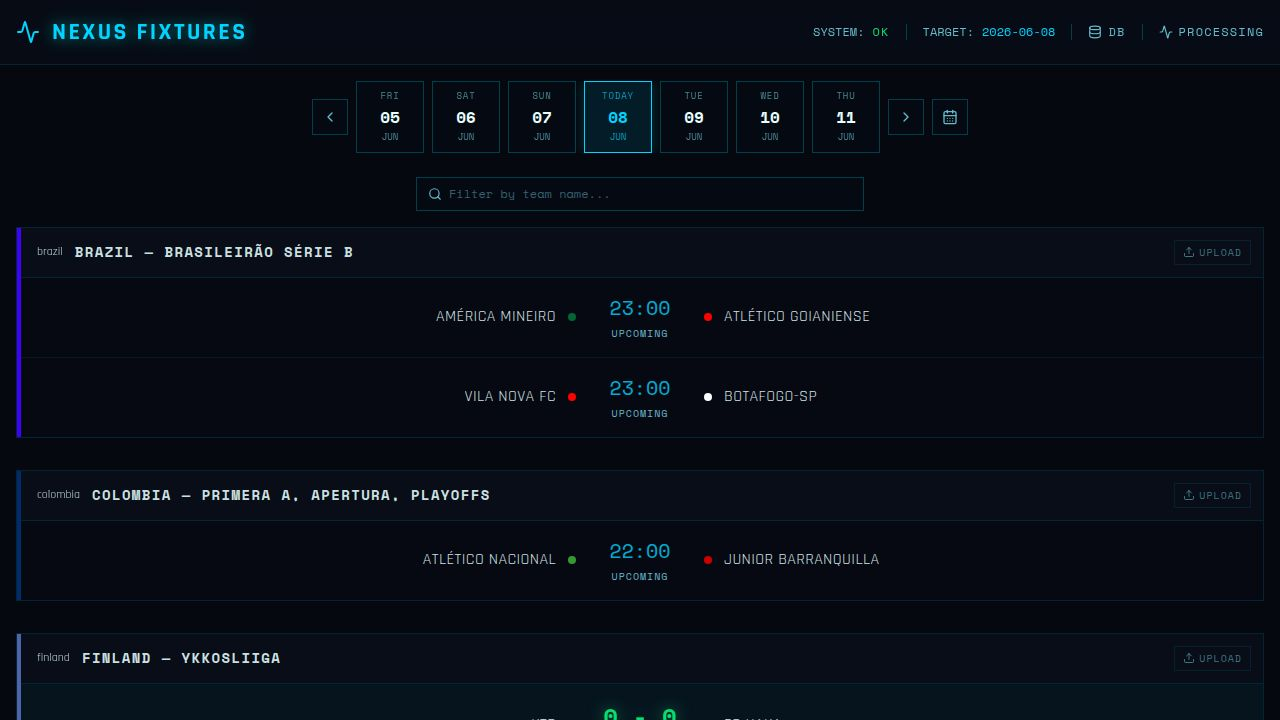
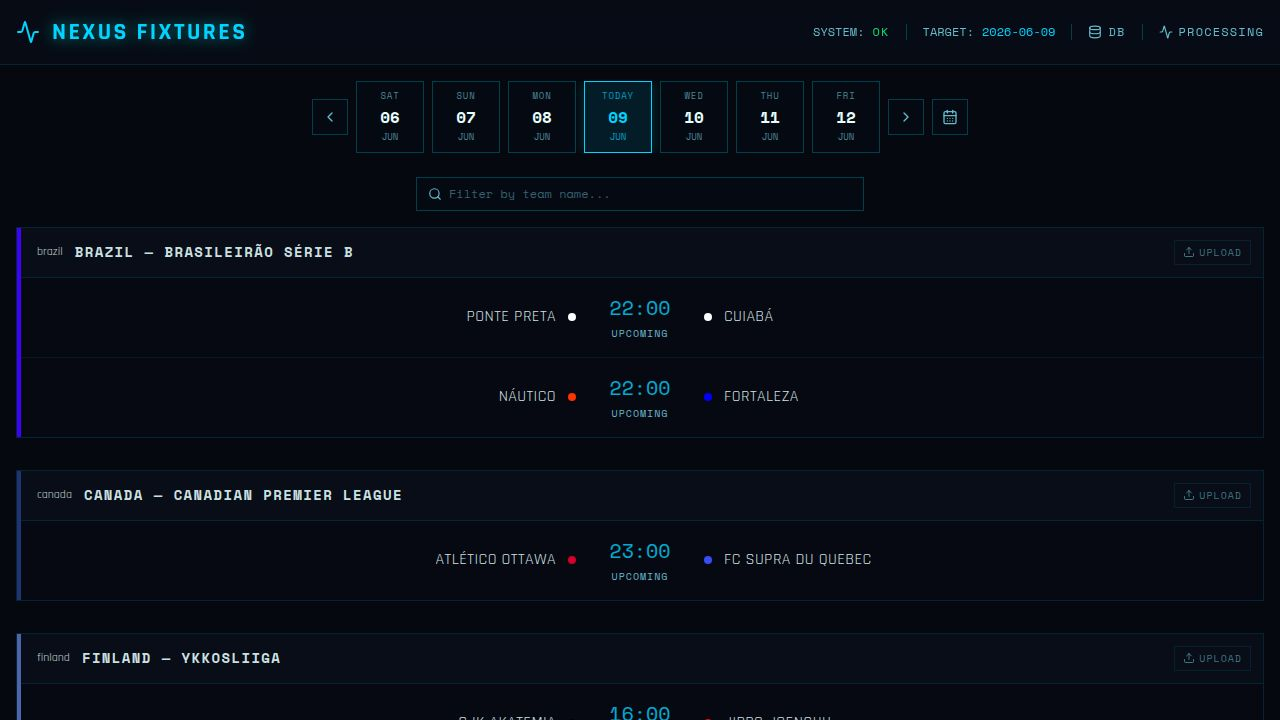
Add a sure-bet scanner to display arbitrage opportunities
Integrates a new arbitrage scanning module (`arbScanner.ts`) into the prediction logic (`mlModel.ts`) and displays identified sure-bet opportunities on the fixture detail page (`fixture-detail.tsx`).

Replit-Commit-Author: Agent
Replit-Commit-Session-Id: f329460f-7ec2-4fdb-a324-409010abef27
Replit-Commit-Checkpoint-Type: full_checkpoint
Replit-Commit-Event-Id: 28495bc1-f07c-414d-99c6-06369396d04d
Replit-Commit-Screenshot-Url: https://storage.googleapis.com/screenshot-production-us-central1/74ae8d53-9d60-4391-8fed-8010260faf11/f329460f-7ec2-4fdb-a324-409010abef27/0TlQIv2
Replit-Helium-Checkpoint-Created: true

diff --git a/artifacts/api-server/src/lib/arbScanner.ts b/artifacts/api-server/src/lib/arbScanner.ts
@@ -1,0 +1,111 @@
+/**
+ * Arbitrage (sure-bet) scanner.
+ *
+ * A sure-bet exists when the sum of (1 / best_odds_for_each_outcome) across
+ * ALL bookmakers is less than 1.0.  The gap below 1 is guaranteed profit
+ * regardless of which outcome occurs.
+ *
+ * Formula:
+ *   impliedSum = Σ (1 / bestOdds_i)
+ *   profitPct  = (1 / impliedSum - 1) × 100
+ *   stakeᵢ     = (1 / bestOdds_i) / impliedSum   (fraction of total stake)
+ */
+
+export interface ArbLeg {
+  outcome: string;
+  bookmaker: string;
+  odds: number;
+  stakePercent: number;  // % of total stake to place on this leg
+}
+
+export interface ArbOpportunity {
+  market: string;
+  impliedSum: number;    // < 1.0 means sure-bet exists
+  profitPct: number;     // guaranteed profit on total stake
+  legs: ArbLeg[];
+}
+
+interface OddsEntry {
+  bookmaker: string;
+  odds: (number | null)[];
+  line?: number;
+}
+
+function bestForOutcome(
+  entries: OddsEntry[],
+  idx: number,
+): { bookmaker: string; odds: number } | null {
+  let best: { bookmaker: string; odds: number } | null = null;
+  for (const e of entries) {
+    const o = e.odds[idx];
+    if (o && o > 1.01 && (!best || o > best.odds)) {
+      best = { bookmaker: e.bookmaker, odds: o };
+    }
+  }
+  return best;
+}
+
+function scanMarket(
+  marketName: string,
+  outcomes: string[],
+  entries: OddsEntry[],
+  indices: number[],
+): ArbOpportunity | null {
+  if (!entries.length) return null;
+
+  const bests = indices.map(i => bestForOutcome(entries, i));
+  if (bests.some(b => b === null)) return null;
+
+  const impliedSum = bests.reduce((s, b) => s + 1 / b!.odds, 0);
+  // Only flag if clearly below 1 (allow tiny floating point noise)
+  if (impliedSum >= 0.999) return null;
+
+  const profitPct = (1 / impliedSum - 1) * 100;
+  const legs: ArbLeg[] = bests.map((b, i) => ({
+    outcome: outcomes[i],
+    bookmaker: b!.bookmaker,
+    odds: b!.odds,
+    stakePercent: Math.round(((1 / b!.odds) / impliedSum) * 10000) / 100,
+  }));
+
+  return {
+    market: marketName,
+    impliedSum: Math.round(impliedSum * 10000) / 10000,
+    profitPct: Math.round(profitPct * 100) / 100,
+    legs,
+  };
+}
+
+export function scanArbitrage(oddsData: {
+  onex2: OddsEntry[];
+  btts:  OddsEntry[];
+  dc:    OddsEntry[];
+  ou:    OddsEntry[];
+}): ArbOpportunity[] {
+  const opportunities: ArbOpportunity[] = [];
+
+  const arb1x2 = scanMarket("1X2", ["Home", "Draw", "Away"], oddsData.onex2, [0, 1, 2]);
+  if (arb1x2) opportunities.push(arb1x2);
+
+  const arbBtts = scanMarket("BTTS", ["Yes", "No"], oddsData.btts, [0, 1]);
+  if (arbBtts) opportunities.push(arbBtts);
+
+  // DC index order in BetExplorer: [0]=1X, [1]=X2, [2]=12
+  const arbDc = scanMarket("Double Chance", ["1X", "X2", "12"], oddsData.dc, [0, 1, 2]);
+  if (arbDc) opportunities.push(arbDc);
+
+  // O/U — group entries by line, scan each line independently
+  const byLine = new Map<number, OddsEntry[]>();
+  for (const e of oddsData.ou) {
+    if (e.line != null) {
+      if (!byLine.has(e.line)) byLine.set(e.line, []);
+      byLine.get(e.line)!.push(e);
+    }
+  }
+  for (const [line, entries] of byLine) {
+    const arbOu = scanMarket(`O/U ${line}`, ["Over", "Under"], entries, [0, 1]);
+    if (arbOu) opportunities.push(arbOu);
+  }
+
+  return opportunities.sort((a, b) => b.profitPct - a.profitPct);
+}

diff --git a/artifacts/processing-engine/src/pages/fixture-detail.tsx b/artifacts/processing-engine/src/pages/fixture-detail.tsx
@@ -882,11 +882,14 @@ interface ScoreProb { home: number; away: number; prob: number }
 interface ValueBet { market: string; outcome: string; modelProb: number; impliedProb: number; edge: number; bestOdds: number }
 interface CornerPred { predicted: number; over85: number; over95: number; over105: number }
 interface BestOdds { H?: number; D?: number; A?: number; yes?: number; no?: number; "1X"?: number; "12"?: number; X2?: number }
+interface ArbLeg { outcome: string; bookmaker: string; odds: number; stakePercent: number }
+interface ArbOpportunity { market: string; impliedSum: number; profitPct: number; legs: ArbLeg[] }
 interface FixturePrediction {
   method: string; featureQuality: string;
   onex2: ProbMap; dc: { "1X": number; "12": number; X2: number };
   btts: Prob2; corners: CornerPred;
   correctScores: ScoreProb[]; valueBets: ValueBet[];
+  arbitrage: ArbOpportunity[];
   lambdaHome: number; lambdaAway: number;
   bestOdds: BestOdds;
   impliedProbs: { H?: number; D?: number; A?: number; yes?: number; no?: number };
@@ -1097,6 +1100,49 @@ function FixturePredictionPanel({ homeTeamId, awayTeamId, homeTeam, awayTeam, ki
                   </div>
                 ))}
               </div>
+            </div>
+          )}
+
+          {/* Arbitrage / Sure-Bet */}
+          {pred.arbitrage && pred.arbitrage.length > 0 ? (
+            <div>
+              <div className="text-[10px] font-mono uppercase tracking-widest text-green-400/80 mb-2 flex items-center gap-1.5">
+                <span className="inline-flex items-center gap-1 px-1.5 py-0.5 bg-green-500/15 border border-green-500/30 rounded-sm text-green-400 text-[9px] font-bold">SURE-BET</span>
+                Arbitrage Detected ({pred.arbitrage.length} market{pred.arbitrage.length > 1 ? "s" : ""})
+              </div>
+              <div className="space-y-2">
+                {pred.arbitrage.map((arb, i) => (
+                  <div key={i} className="border border-green-500/30 bg-green-500/5 p-3 rounded-sm">
+                    <div className="flex items-center justify-between mb-2">
+                      <span className="text-[11px] font-mono font-bold text-green-400">{arb.market}</span>
+                      <div className="flex items-center gap-2">
+                        <span className="text-[9px] font-mono text-muted-foreground/50">implied Σ {arb.impliedSum.toFixed(4)}</span>
+                        <span className="text-[11px] font-mono font-bold text-green-300 bg-green-500/20 px-1.5 py-0.5 rounded-sm">
+                          +{arb.profitPct.toFixed(2)}% guaranteed
+                        </span>
+                      </div>
+                    </div>
+                    <div className="space-y-1">
+                      {arb.legs.map((leg, j) => (
+                        <div key={j} className="flex items-center gap-2 text-[10px] font-mono">
+                          <span className="text-muted-foreground/60 w-10">{leg.outcome}</span>
+                          <span className="text-foreground/80 font-bold flex-1">@{leg.odds.toFixed(2)}</span>
+                          <span className="text-muted-foreground/50">{leg.bookmaker}</span>
+                          <span className="text-green-400 font-bold w-14 text-right">{leg.stakePercent.toFixed(1)}% stake</span>
+                        </div>
+                      ))}
+                    </div>
+                    <div className="mt-2 text-[9px] font-mono text-muted-foreground/40">
+                      Place the stake % above on each outcome to guarantee profit whatever the result.
+                    </div>
+                  </div>
+                ))}
+              </div>
+            </div>
+          ) : (
+            <div className="text-[9px] font-mono text-muted-foreground/25 flex items-center gap-1.5">
+              <span className="inline-block w-1.5 h-1.5 rounded-full bg-muted-foreground/20" />
+              No arbitrage found across available bookmakers
             </div>
           )}
 

diff --git a/artifacts/api-server/src/lib/mlModel.ts b/artifacts/api-server/src/lib/mlModel.ts
@@ -5,6 +5,7 @@
  */
 import { RandomForestClassifier } from "ml-random-forest";
 import { getDb } from "./db.js";
+import { scanArbitrage, type ArbOpportunity } from "./arbScanner.js";
 
 // ── Internal types ────────────────────────────────────────────────────────────
 
@@ -474,6 +475,7 @@ export interface PredictionOutput {
     dc: { "1X": number; "12": number; X2: number };
   };
   valueBets: Array<{ market: string; outcome: string; modelProb: number; impliedProb: number; edge: number; bestOdds: number | null }>;
+  arbitrage: ArbOpportunity[];
 }
 
 export function predictMatch(m: MatchLike): PredictionOutput {
@@ -599,6 +601,14 @@ export function predictMatch(m: MatchLike): PredictionOutput {
   chk("DC", "X2", dc.X2,    impliedProbs.dc.X2,    bestOdds.dc.X2);
   valueBets.sort((a, b) => b.edge - a.edge);
 
+  // ── Arbitrage scanner ─────────────────────────────────────────────────────
+  const arbitrage = scanArbitrage({
+    onex2: ox,
+    btts:  ob,
+    dc:    od,
+    ou:    ou,
+  });
+
   return {
     method, featureQuality,
     nSamples: state?.nSamples ?? 0,
@@ -609,7 +619,7 @@ export function predictMatch(m: MatchLike): PredictionOutput {
     lambdaAway: Math.round(poisson.lambdaAway * 100) / 100,
     onex2, dc, btts, corners,
     correctScores: poisson.correctScores,
-    bestOdds, impliedProbs, valueBets,
+    bestOdds, impliedProbs, valueBets, arbitrage,
   };
 }
 